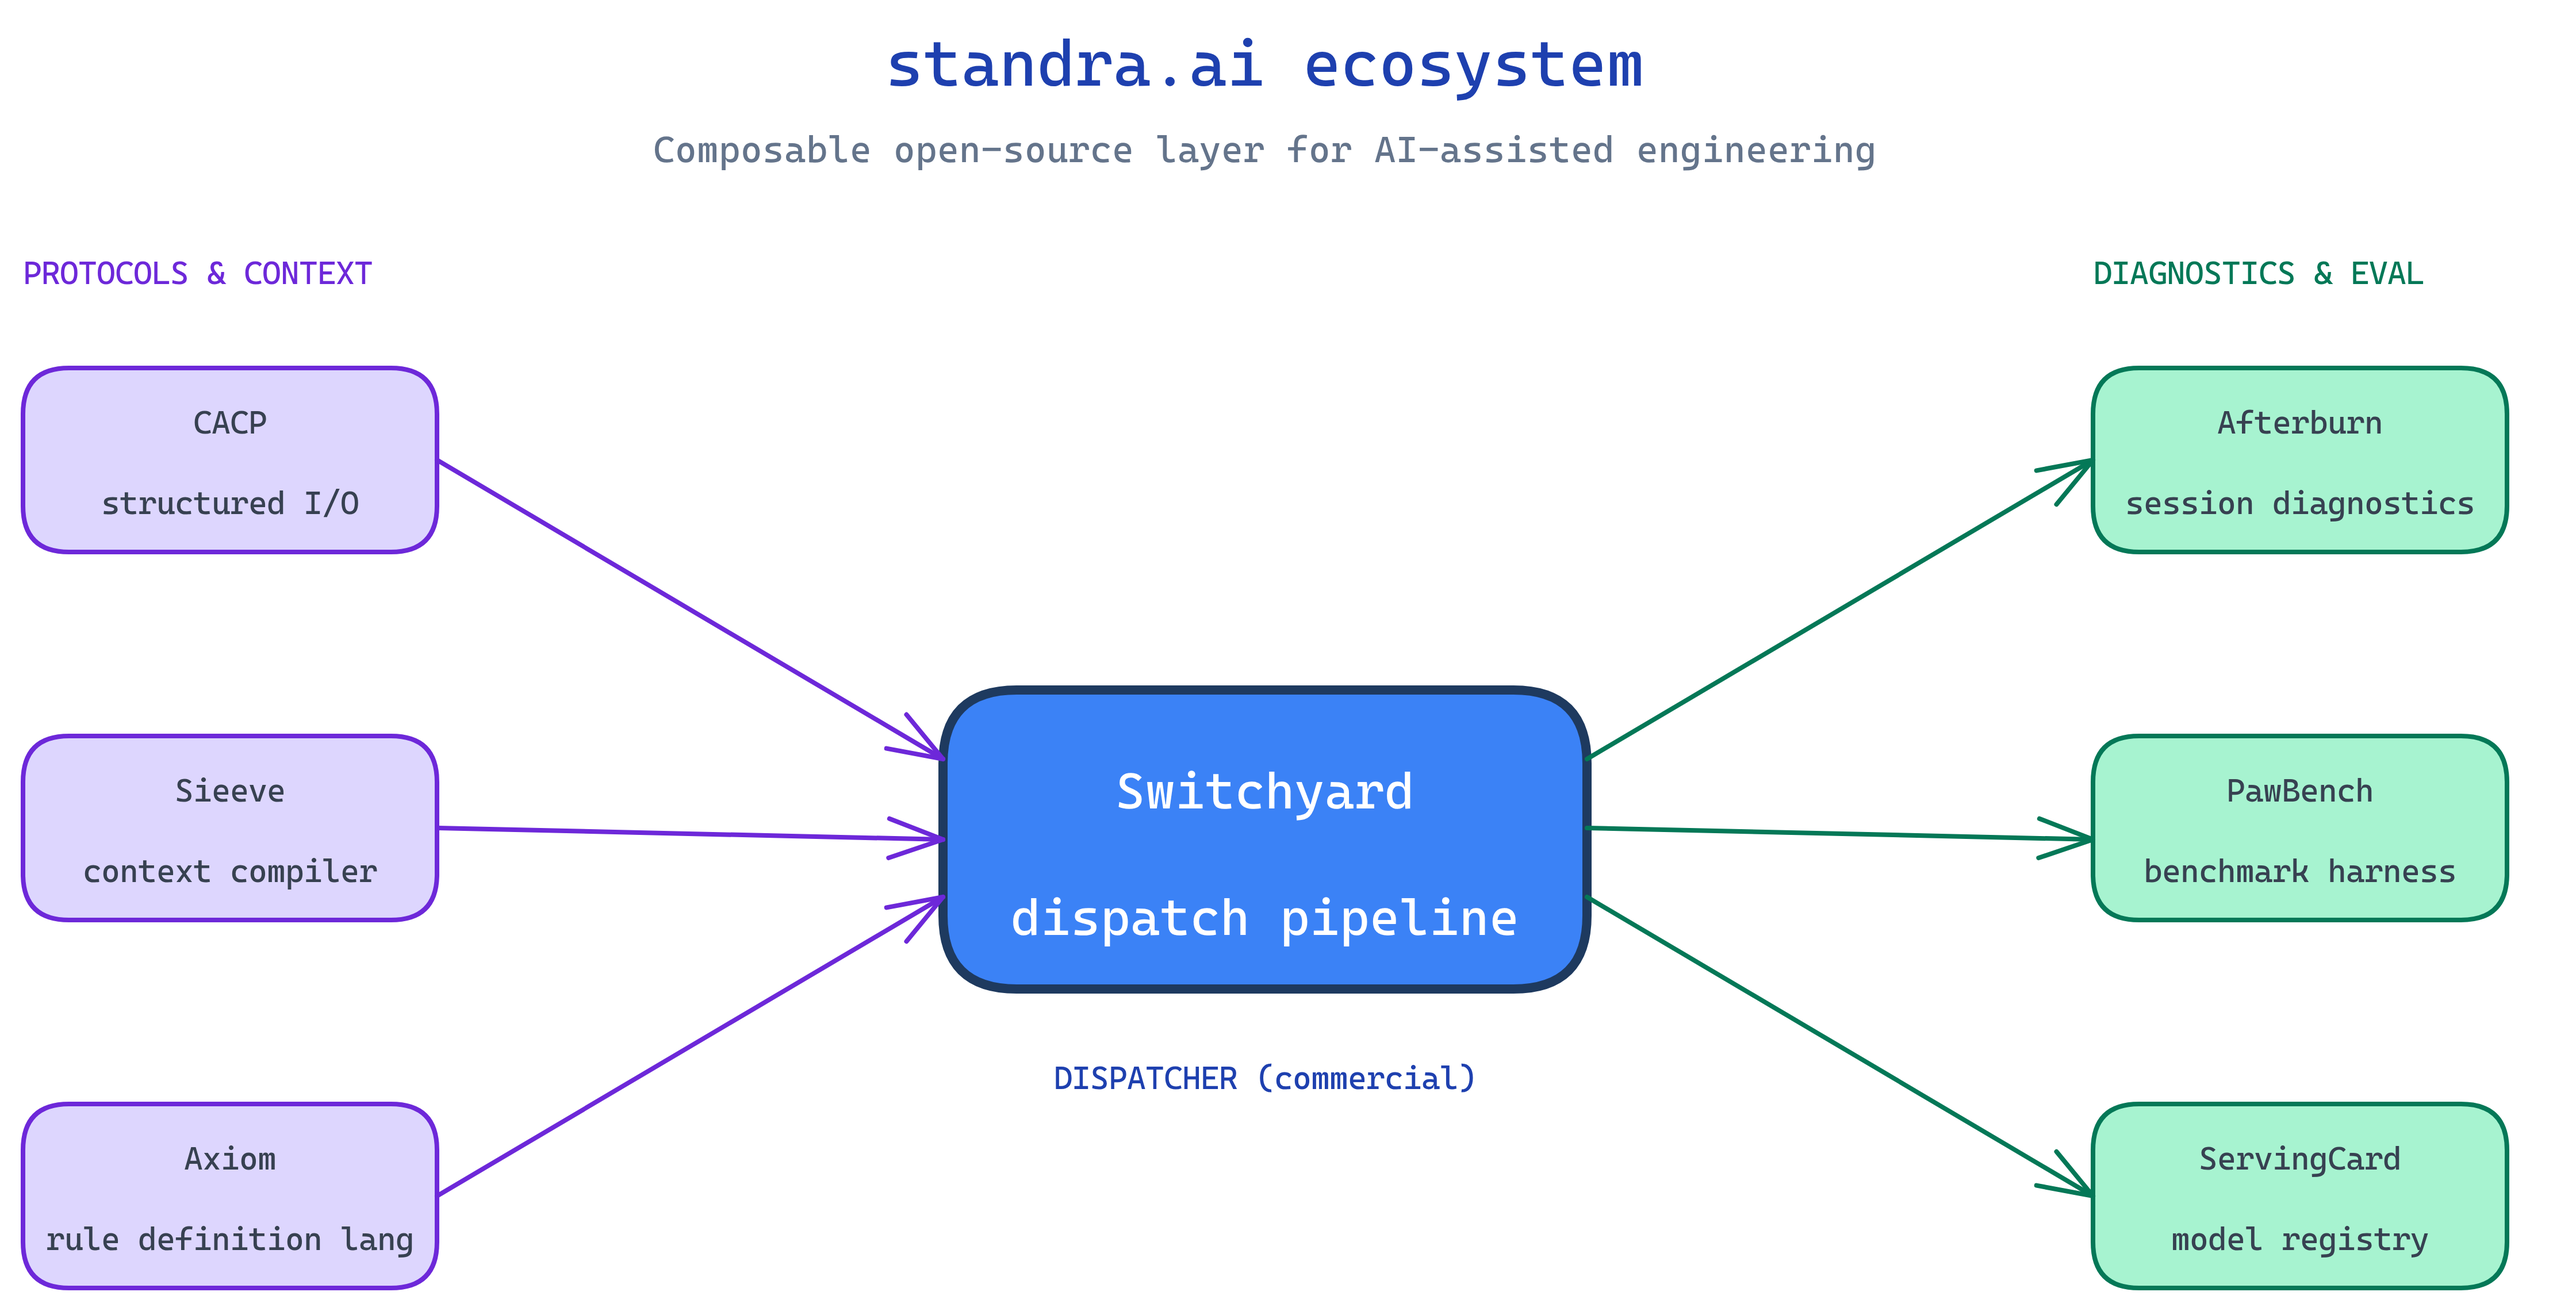
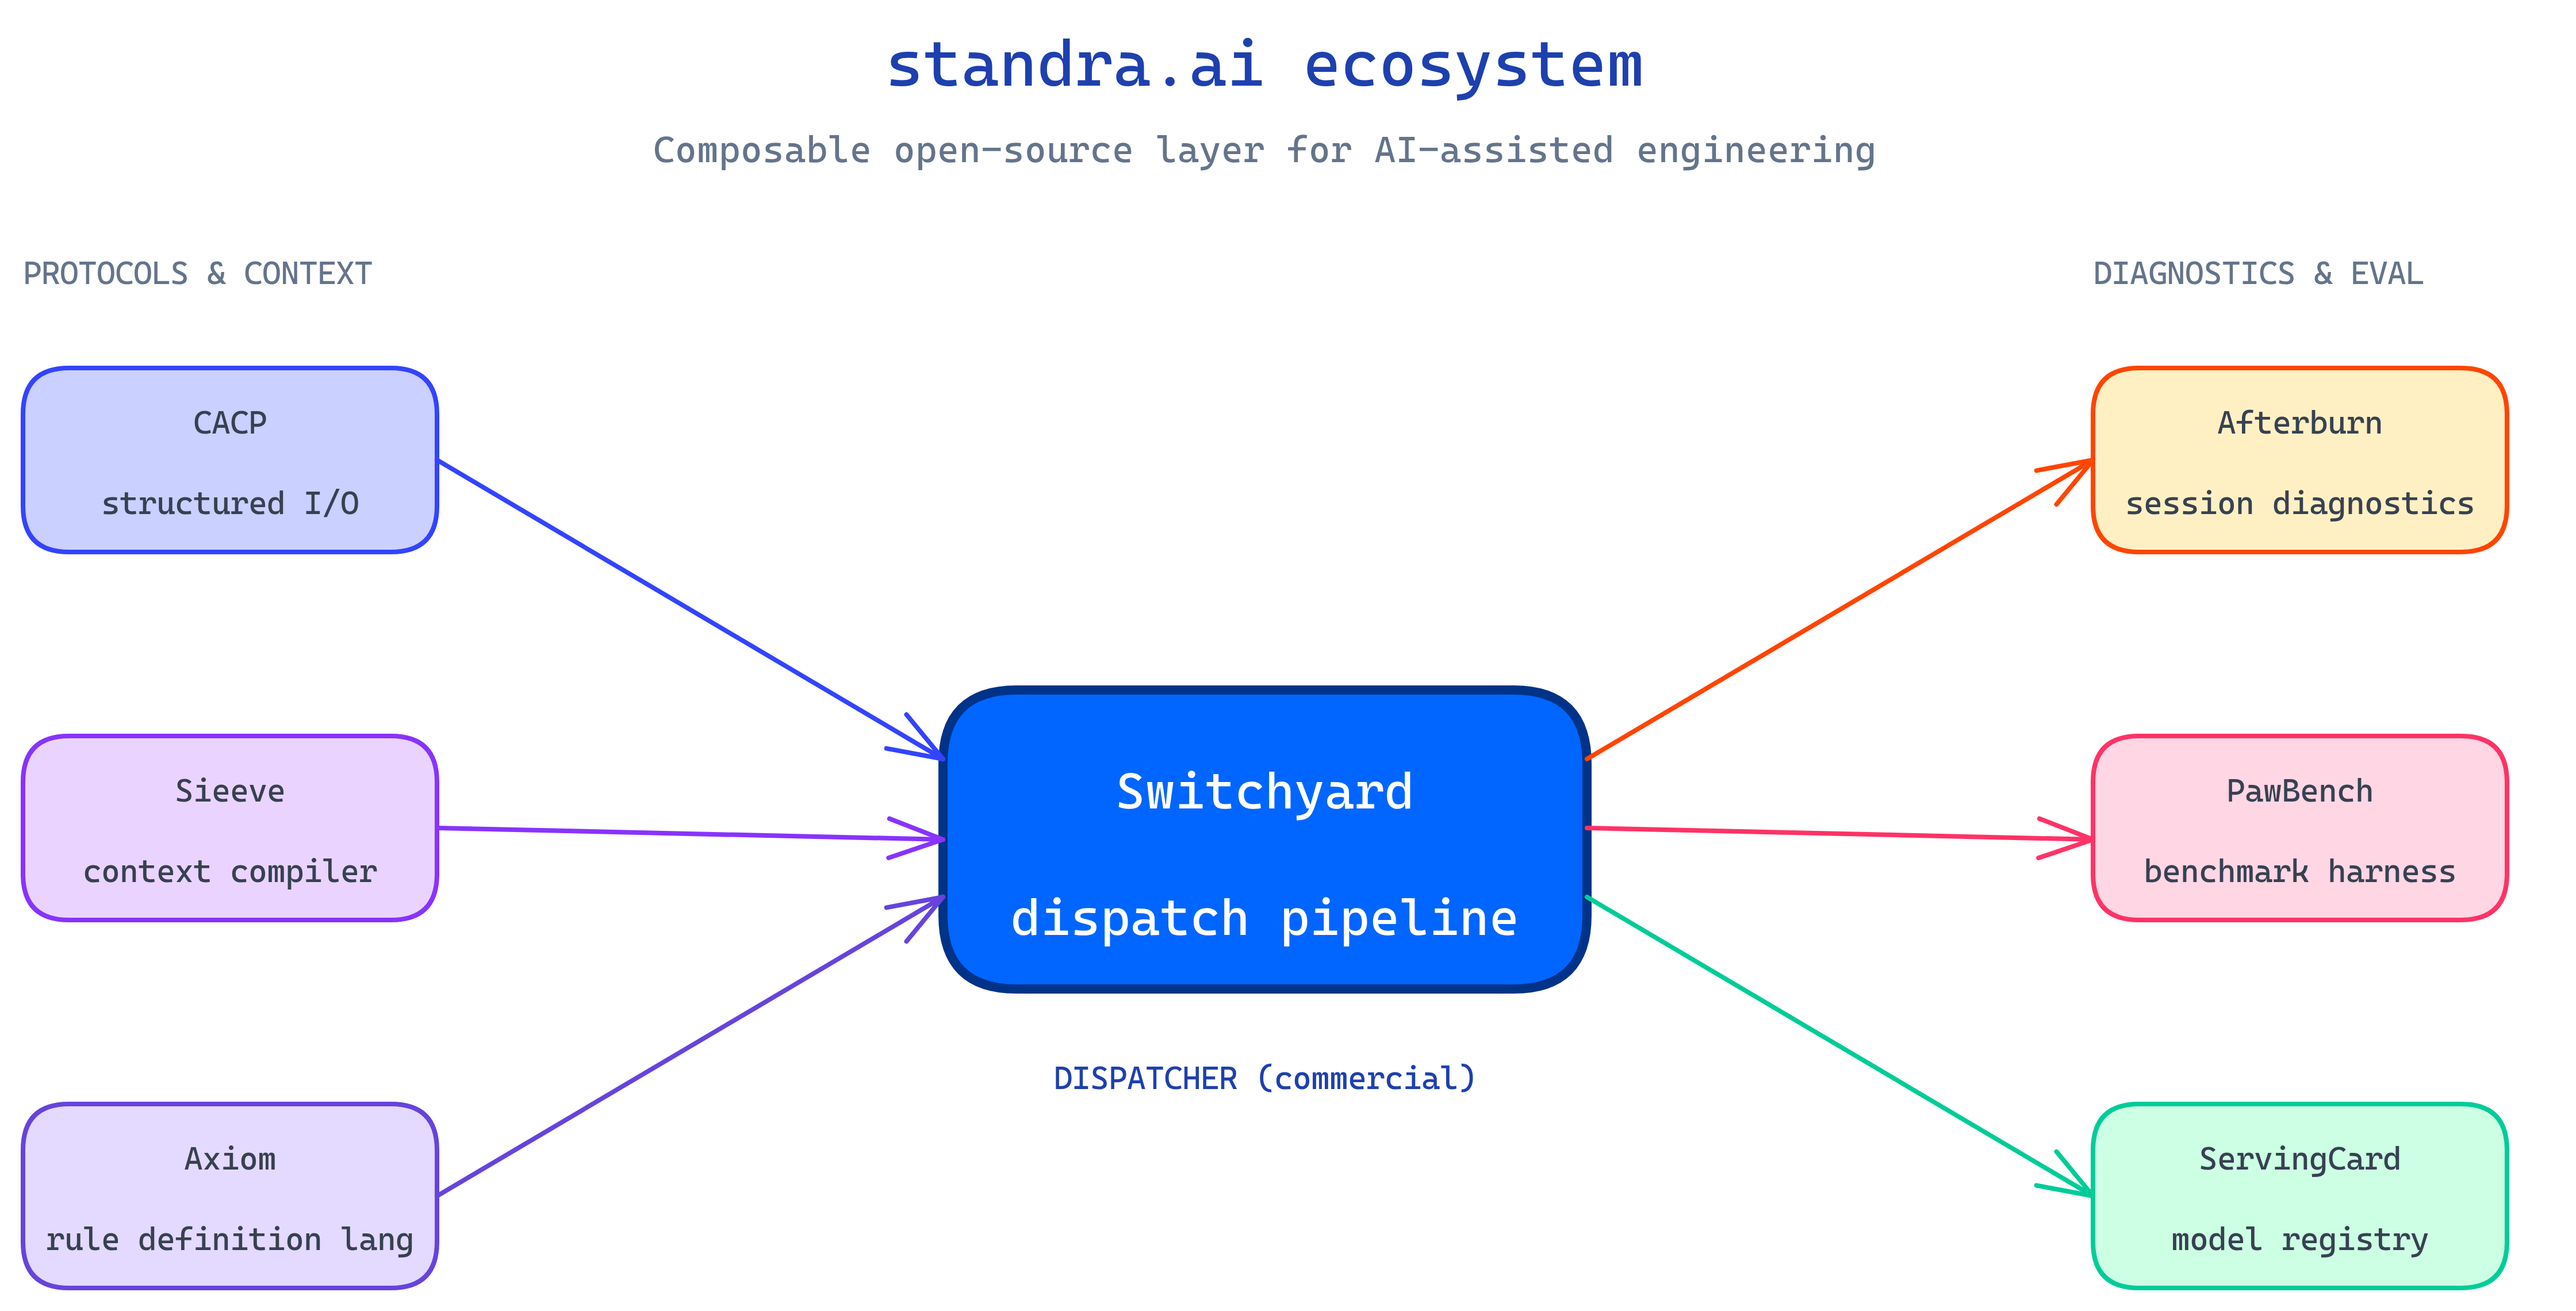
fix(diagrams): apply per-project brand colours per design system
The ecosystem diagram was using semantic role colours (everything
purple for "context", everything green for "diagnostics") which
violated the design system. Now every project box uses ITS brand
gradient from design-system.md:

- CACP        indigo  (#3344ff / #cad0ff)
- Sieeve      violet  (#8833ff / #ead4ff)
- Axiom       purple  (#6644dd / #e4d9ff)
- Switchyard  blue    (#0066ff / #003388, saturated hub)
- Afterburn   fire    (#ff4500 / #fff0c4)
- PawBench    pink    (#ff3366 / #ffd6e4)
- ServingCard teal    (#00cc99 / #ccffe4)

Arrows match the source element's stroke colour. Section labels
demoted to neutral slate (#64748b) since boxes underneath no longer
share a unified colour.

Also updated diagram-spec.md to clarify when to use brand chip
colours (cross-project diagrams) vs semantic role colours
(intra-project diagrams), with the chip table inline.

diff --git a/docs/diagram-spec.md b/docs/diagram-spec.md
@@ -29,9 +29,41 @@ project/
 
 Most diagrams fit in a 1200–1400 × 800–900 region. Don't stretch beyond unless the content demands it.
 
+## When to use which palette
+
+Architecture diagrams come in two flavours, each with its own colour rule:
+
+| Diagram type | Colour rule | Example |
+|---|---|---|
+| **Cross-project** (shows multiple standra projects) | **Project chip colours** — every project box uses ITS brand colour from the table below | `ecosystem.png` |
+| **Intra-project** (shows roles within one system) | **Semantic shape colours** — colours encode the role (start, decision, gate, etc.) | `dispatch-flow.png` |
+
+**Rule**: if two boxes in your diagram represent different standra projects, they MUST use different brand colours. Don't paint Sieeve and CACP both purple just because they both "feed context."
+
+---
+
+## Project chip colours
+
+Derived from the brand axis in [design-system.md](design-system.md). Light fill + dark stroke. Use for any element that represents a standra project in a cross-project diagram.
+
+| Project | Fill | Stroke | Notes |
+|---|---|---|---|
+| **standra (parent hub)** | `#0066ff` | `#003388` | Saturated fill, white text inside, stroke width 4 |
+| **Switchyard** | `#cce4ff` | `#0066ff` | Stroke width 3 when shown as a hub |
+| **Sieeve** | `#ead4ff` | `#8833ff` | |
+| **Axiom** | `#e4d9ff` | `#6644dd` | |
+| **CACP** | `#cad0ff` | `#3344ff` | |
+| **Afterburn** | `#fff0c4` | `#ff4500` | |
+| **PawBench** | `#ffd6e4` | `#ff3366` | |
+| **ServingCard** | `#ccffe4` | `#00cc99` | |
+
+Arrows connecting two projects use the **source element's stroke colour**.
+
+---
+
 ## Semantic shape colours
 
-Colours encode meaning. Pick the row that matches the element's role.
+Use these inside intra-project diagrams (where boxes represent roles, not projects).
 
 | Semantic role | Fill | Stroke | Use for |
 |---|---|---|---|
